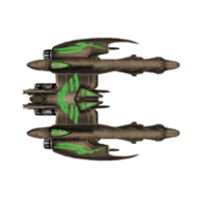
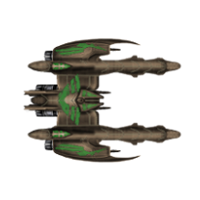
Kraasus and Erlassan

Changed region(s): [[0.09, 0.18, 0.93, 0.84]]

diff --git a/source/server/model/ships/balosian/erlassan.php b/source/server/model/ships/balosian/erlassan.php
@@ -1,0 +1,53 @@
+<?php
+class Erlassan extends HeavyCombatVessel{
+    
+    function __construct($id, $userid, $name,  $slot){
+        parent::__construct($id, $userid, $name,  $slot);
+        
+	$this->pointCost = 500;
+	$this->faction = "Balosian";
+        $this->phpclass = "Erlassan";
+        $this->imagePath = "img/ships/kraasus.png";
+        $this->shipClass = "Erlassan Scout";
+        
+        $this->forwardDefense = 13;
+        $this->sideDefense = 15;
+        
+        $this->turncost = 0.66;
+        $this->turndelaycost = 0.66;
+        $this->accelcost = 2;
+        $this->rollcost = 2;
+        $this->pivotcost = 2;
+        $this->iniativebonus = 30;
+
+	$this->addPrimarySystem(new Reactor(4, 15, 0, 0));
+	$this->addPrimarySystem(new CnC(5, 12, 0, 0));
+	$this->addPrimarySystem(new ElintScanner(4,15, 9, 8));
+	$this->addPrimarySystem(new Engine(4, 14, 0, 10, 3));
+	$this->addPrimarySystem(new Hangar(4, 2));
+	$this->addPrimarySystem(new Thruster(4, 15, 0, 4, 3));
+	$this->addPrimarySystem(new Thruster(4, 15, 0, 4, 4));
+	  
+	$this->addFrontSystem(new Thruster(4, 8, 0, 3, 1));
+	$this->addFrontSystem(new Thruster(4, 8, 0, 3, 1));
+	$this->addFrontSystem(new IonCannon(4, 6, 4, 300, 60));	
+	$this->addFrontSystem(new StdParticleBeam(3, 4, 1, 270, 90));
+	$this->addFrontSystem(new IonCannon(4, 6, 4, 300, 60));	
+
+	$this->addAftSystem(new Thruster(4, 6, 0, 2, 2));
+	$this->addAftSystem(new Thruster(4, 8, 0, 3, 2));
+	$this->addAftSystem(new Thruster(4, 8, 0, 3, 2));
+	$this->addAftSystem(new Thruster(4, 6, 0, 2, 2));
+	$this->addAftSystem(new StdParticleBeam(3, 4, 1, 240, 0));	
+	$this->addAftSystem(new StdParticleBeam(3, 4, 1, 180, 0));
+	$this->addAftSystem(new StdParticleBeam(3, 4, 1, 0, 180));
+	$this->addAftSystem(new StdParticleBeam(3, 4, 1, 0, 120));	
+	$this->addAftSystem(new StdParticleBeam(3, 4, 1, 90, 270));
+
+        //0:primary, 1:front, 2:rear, 3:left, 4:right;
+        $this->addFrontSystem(new Structure(4, 48));
+        $this->addAftSystem(new Structure(4, 50));
+        $this->addPrimarySystem(new Structure(4, 48));
+    }
+}
+?>

diff --git a/source/server/model/ships/balosian/kraasus.php b/source/server/model/ships/balosian/kraasus.php
@@ -1,0 +1,53 @@
+<?php
+class Kraasus extends HeavyCombatVessel{
+    
+    function __construct($id, $userid, $name,  $slot){
+        parent::__construct($id, $userid, $name,  $slot);
+        
+	$this->pointCost = 550;
+	$this->faction = "Balosian";
+        $this->phpclass = "Kraasus";
+        $this->imagePath = "img/ships/kraasus.png";
+        $this->shipClass = "Kraasus Destroyer";
+        
+        $this->forwardDefense = 13;
+        $this->sideDefense = 15;
+        
+        $this->turncost = 0.66;
+        $this->turndelaycost = 0.66;
+        $this->accelcost = 2;
+        $this->rollcost = 2;
+        $this->pivotcost = 2;
+        $this->iniativebonus = 30;
+
+	$this->addPrimarySystem(new Reactor(4, 15, 0, 0));
+	$this->addPrimarySystem(new CnC(5, 12, 0, 0));
+	$this->addPrimarySystem(new Scanner(4,13, 3, 6));
+	$this->addPrimarySystem(new Engine(4, 14, 0, 10, 3));
+	$this->addPrimarySystem(new Hangar(4, 8));
+	$this->addPrimarySystem(new Thruster(4, 15, 0, 4, 3));
+	$this->addPrimarySystem(new Thruster(4, 15, 0, 4, 4));
+	  
+	$this->addFrontSystem(new Thruster(4, 8, 0, 3, 1));
+	$this->addFrontSystem(new Thruster(4, 8, 0, 3, 1));
+	$this->addFrontSystem(new IonCannon(4, 6, 4, 300, 60));	
+	$this->addFrontSystem(new StdParticleBeam(3, 4, 1, 270, 90));
+	$this->addFrontSystem(new IonCannon(4, 6, 4, 300, 60));	
+
+	$this->addAftSystem(new Thruster(4, 6, 0, 2, 2));
+	$this->addAftSystem(new Thruster(4, 8, 0, 3, 2));
+	$this->addAftSystem(new Thruster(4, 8, 0, 3, 2));
+	$this->addAftSystem(new Thruster(4, 6, 0, 2, 2));
+	$this->addAftSystem(new StdParticleBeam(3, 4, 1, 180, 0));
+	$this->addAftSystem(new IonCannon(4, 6, 4, 240, 0));	
+	$this->addAftSystem(new StdParticleBeam(3, 4, 1, 90, 270));
+	$this->addAftSystem(new IonCannon(4, 6, 4, 0, 120));	
+	$this->addAftSystem(new StdParticleBeam(3, 4, 1, 0, 180));
+
+        //0:primary, 1:front, 2:rear, 3:left, 4:right;
+        $this->addFrontSystem(new Structure(4, 48));
+        $this->addAftSystem(new Structure(4, 50));
+        $this->addPrimarySystem(new Structure(4, 48));
+    }
+}
+?>

diff --git a/source/autoload.php b/source/autoload.php
@@ -63,6 +63,7 @@ spl_autoload_register(
                 'elutarian' => '/server/model/ships/centauri/elutarian.php',
                 'energymine' => '/server/model/weapons/AoE.php',
                 'engine' => '/server/model/systems/baseSystems.php',
+                'erlassan' => '/server/model/ships/balosian/erlassan.php',
                 'esharan' => '/server/model/ships/minbari/esharan.php',
                 'essusu' => '/server/model/ships/balosian/essusu.php',
                 'esthasa' => '/server/model/ships/balosian/esthasa.php',
@@ -117,6 +118,7 @@ spl_autoload_register(
                 'jumpengine' => '/server/model/systems/baseSystems.php',
                 'katoc' => '/server/model/ships/narn/Katoc.php',
                 'katanpulsedestroyer' => '/server/model/ships/narn/KatanPulseDestroyer.php',
+                'kraasus' => '/server/model/ships/balosian/kraasus.php',
                 'kutai' => '/server/model/ships/centauri/kutai.php',
                 'lahas' => '/server/model/ships/balosian/lahas.php',
                 'laser' => '/server/model/weapons/lasers.php',
